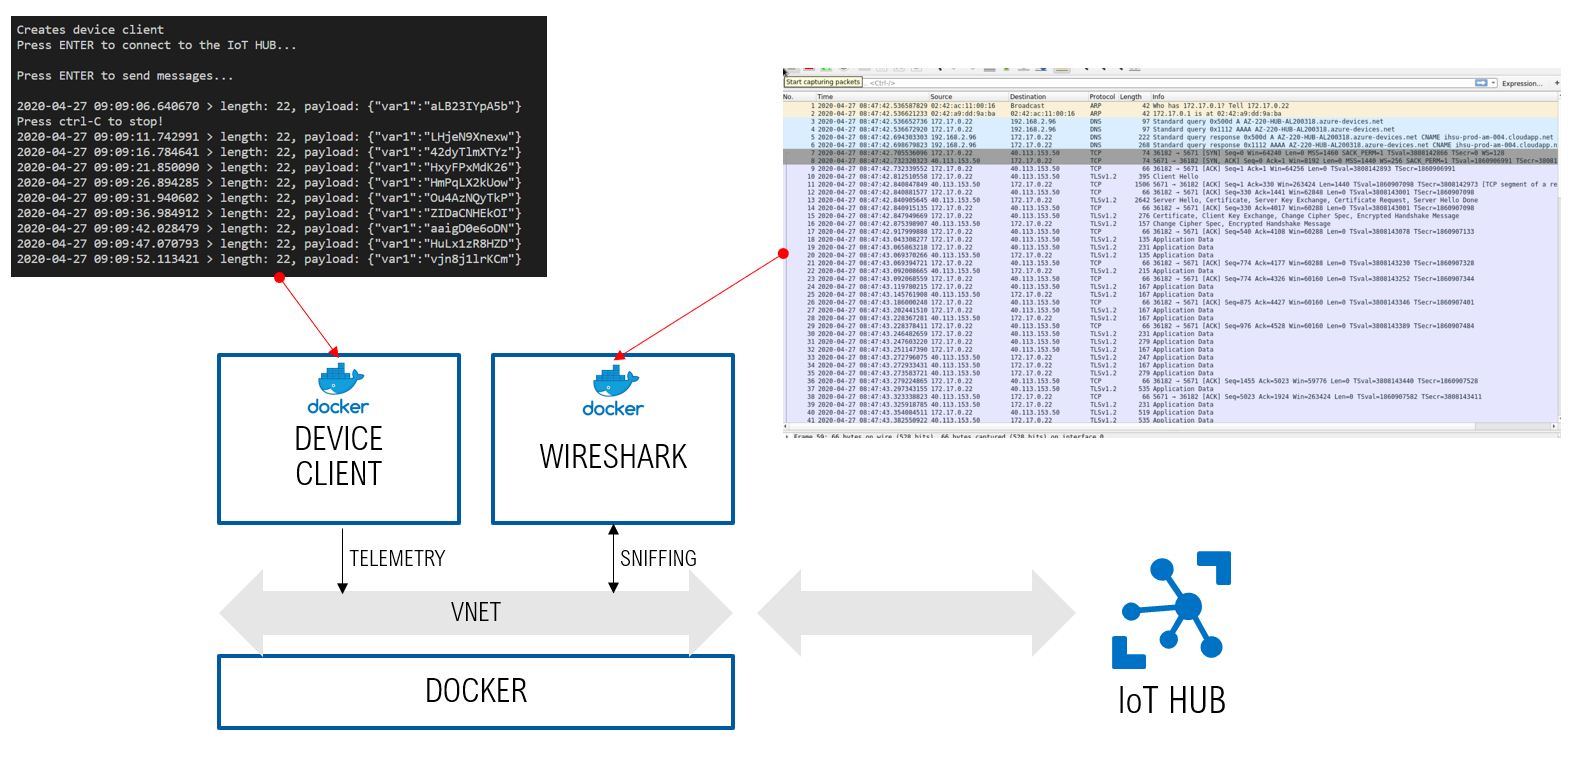
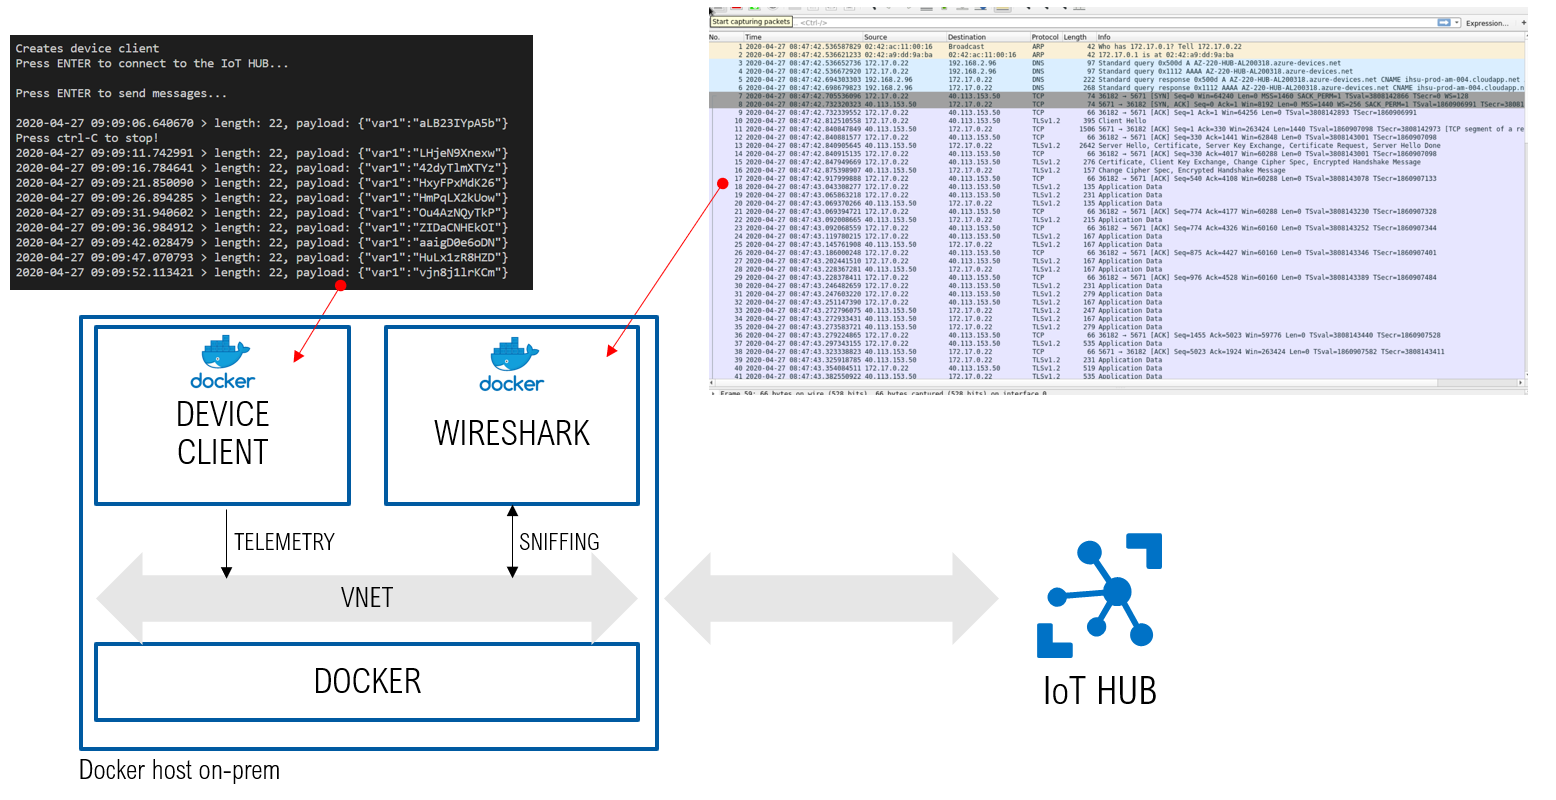
highlight it's on-prem

diff --git a/README.md b/README.md
@@ -1,5 +1,5 @@
 # Overview
-A docker-based setup to analyze the traffic between a simulated IoT Device and the Azure IoT HUB using Wireshark. 
+A docker-based setup to analyze the traffic between a simulated IoT Device on-prem and the Azure IoT HUB using Wireshark. 
 
 ![alt](./images/block-diagram.png)
 
